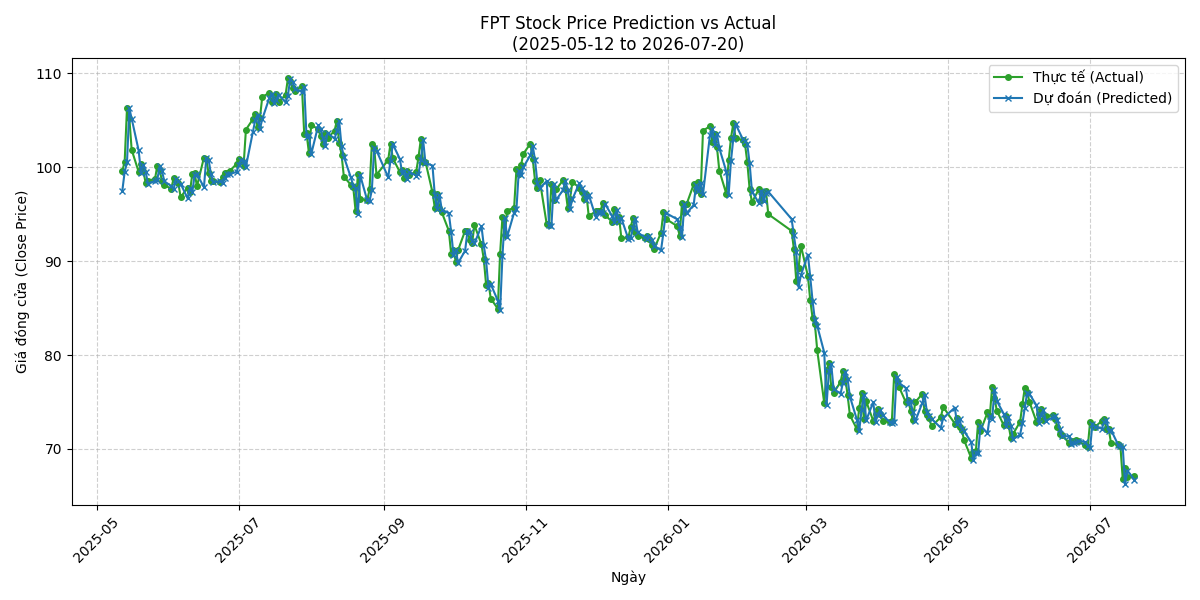
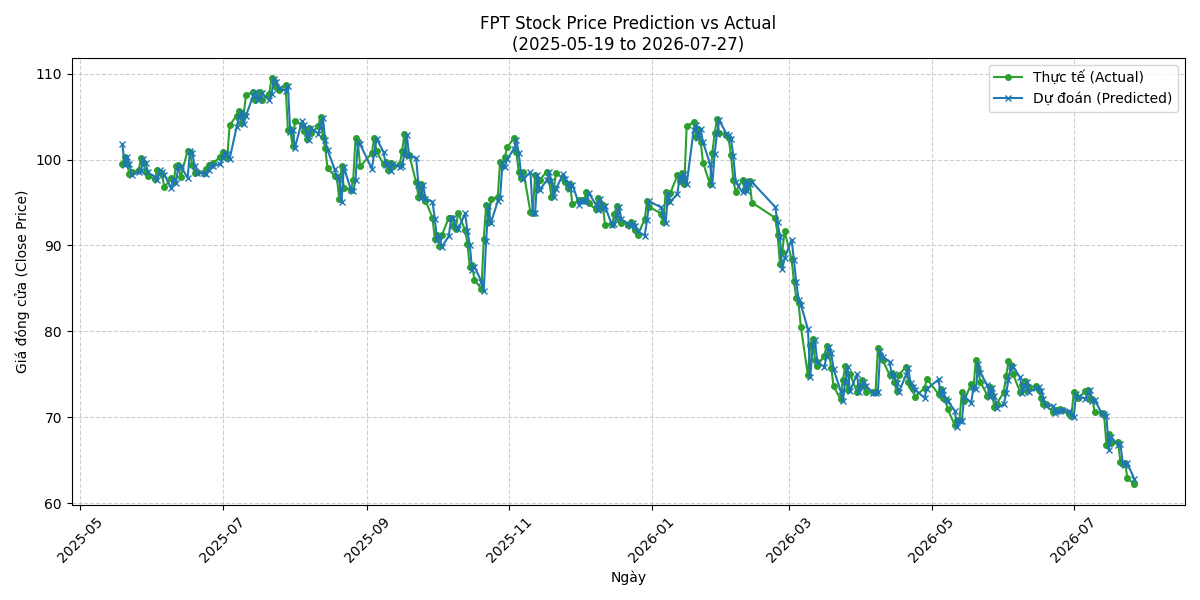
chore: save weekly evaluation reports to output folder

diff --git a/artifacts/raw_fpt_only_residual_cnnlstm_transformer/output/report.md b/artifacts/raw_fpt_only_residual_cnnlstm_transformer/output/report.md
@@ -1,21 +1,21 @@
 Dashboard Đánh Giá Mô Hình FPT
 
-Thời gian đánh giá: 2026-07-20 20:27:15 (Giờ VN)
+Thời gian đánh giá: 2026-07-27 20:55:23 (Giờ VN)
 
 Model Checkpoint: `best_transformer_w3.pt`
 
-Giai đoạn đánh giá: Từ `2025-05-12` đến `2026-07-20` (299 ngày)
+Giai đoạn đánh giá: Từ `2025-05-19` đến `2026-07-27` (299 ngày)
 
 ## 📈 Tổng quan Metrics
 
 | Metric | Giá trị |
 |---|---|
-| **MAE** | `1.2988` |
-| **RMSE** | `1.7351` |
-| **MAPE** | `1.4461` |
-| **R2** | `0.9802` |
-| **BIAS** | `-0.0393` |
-| **DIRECTIONAL_ACCURACY** | `55.1839` |
+| **MAE** | `1.2700` |
+| **RMSE** | `1.6927` |
+| **MAPE** | `1.4279` |
+| **R2** | `0.9821` |
+| **BIAS** | `-0.0095` |
+| **DIRECTIONAL_ACCURACY** | `55.8528` |
 
 Biểu đồ Thực tế vs Dự đoán
 
